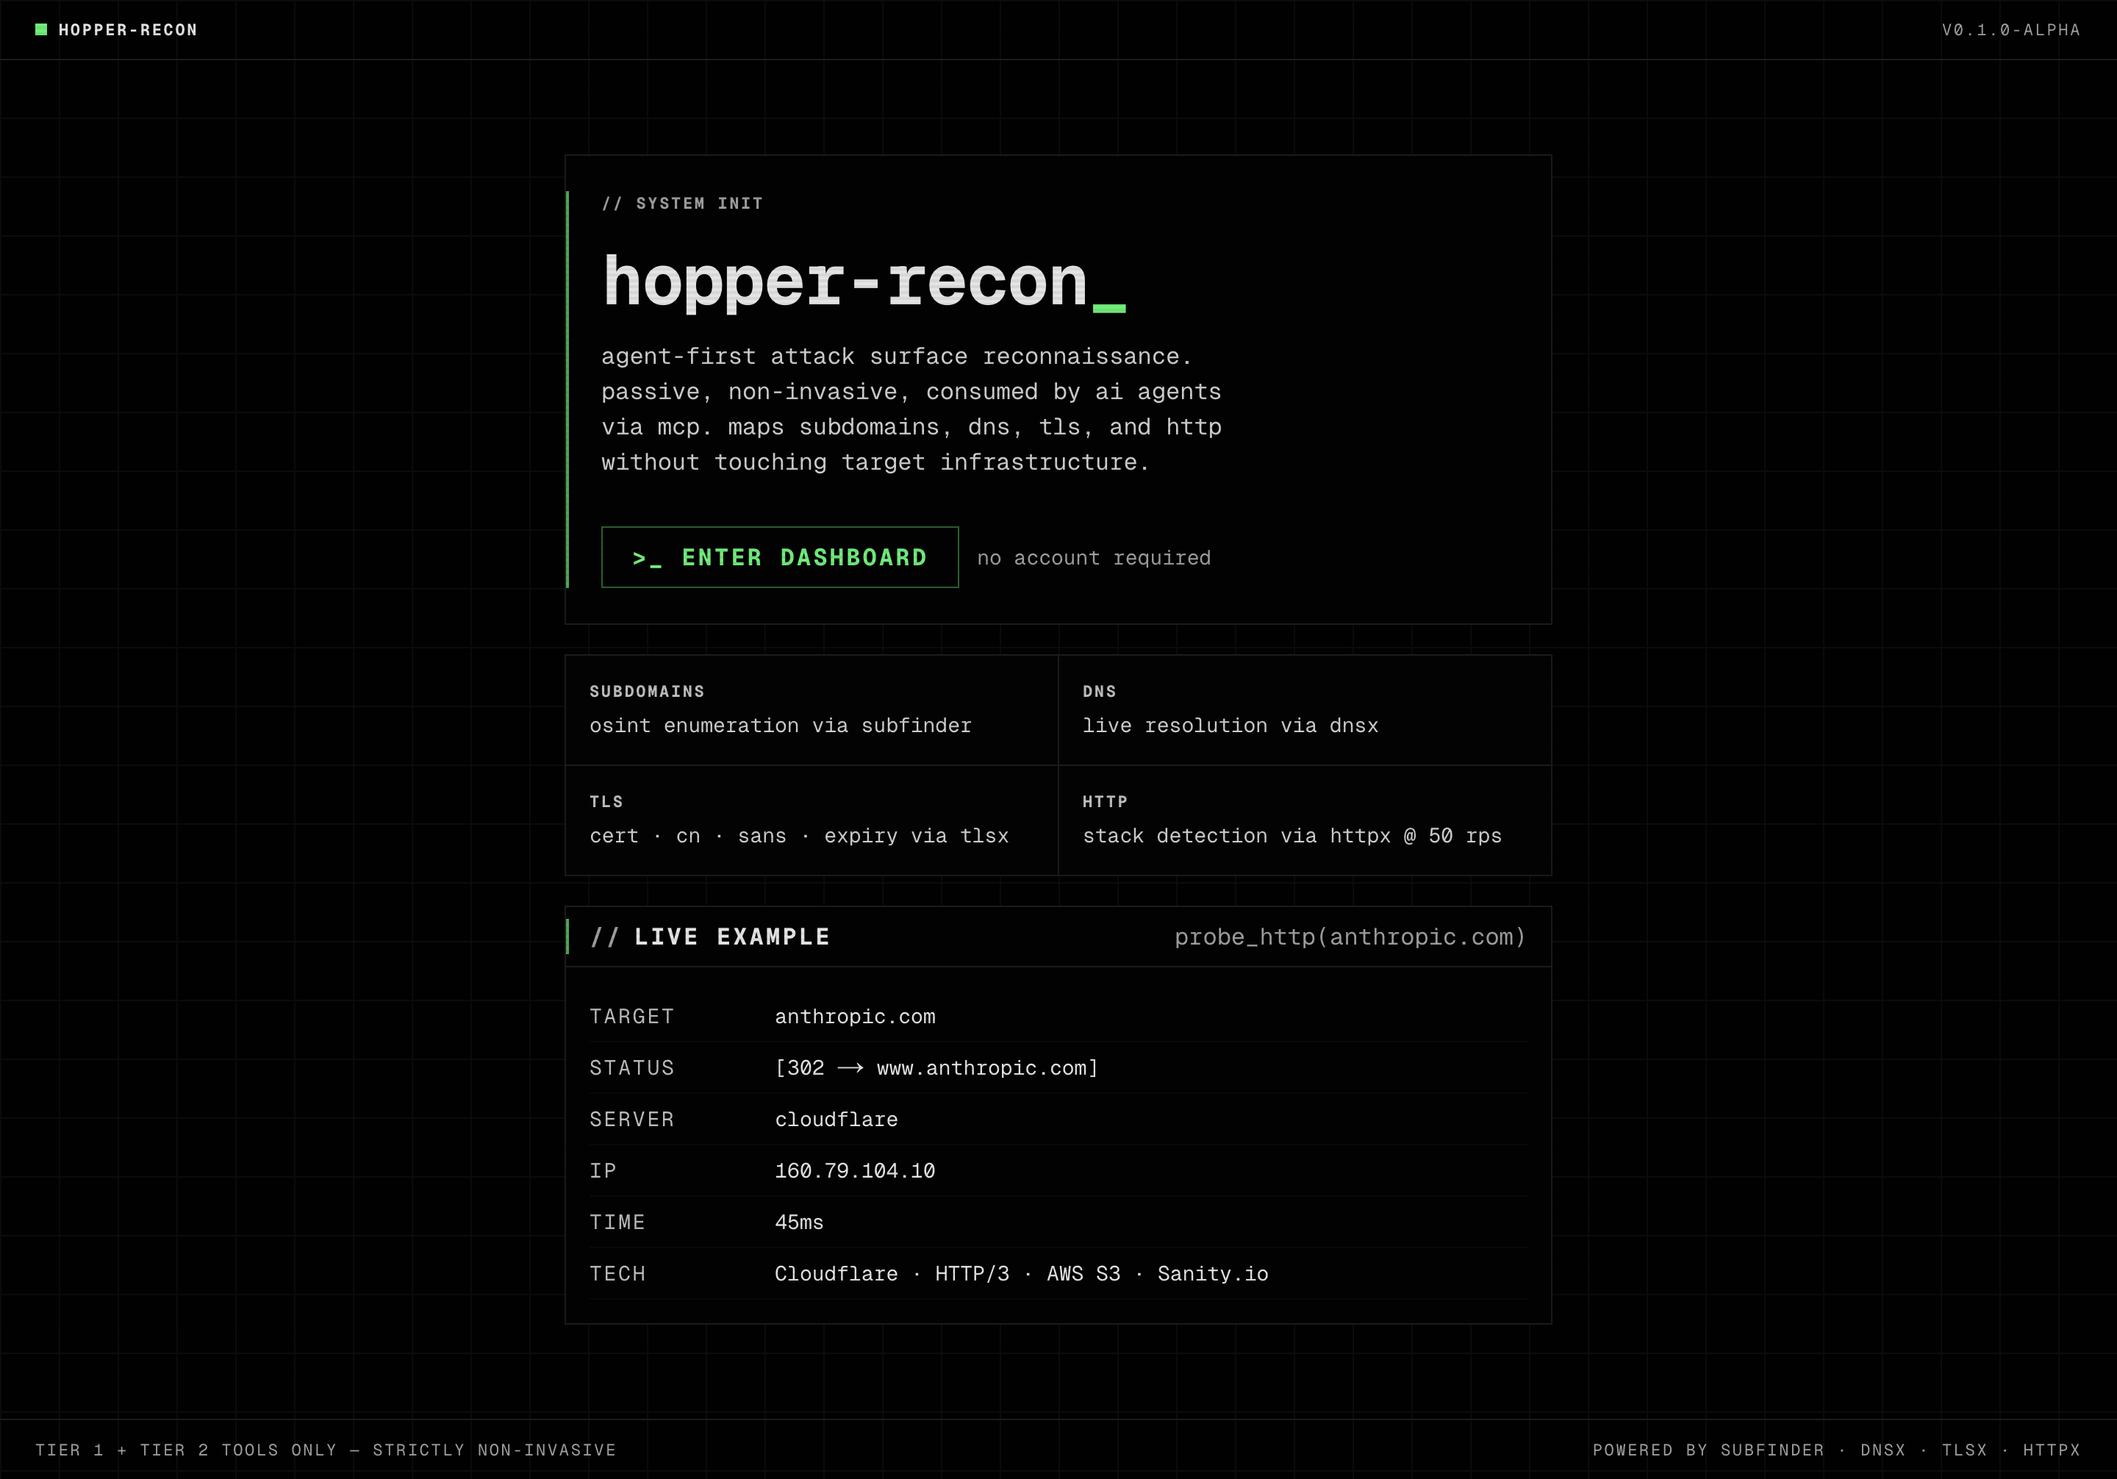
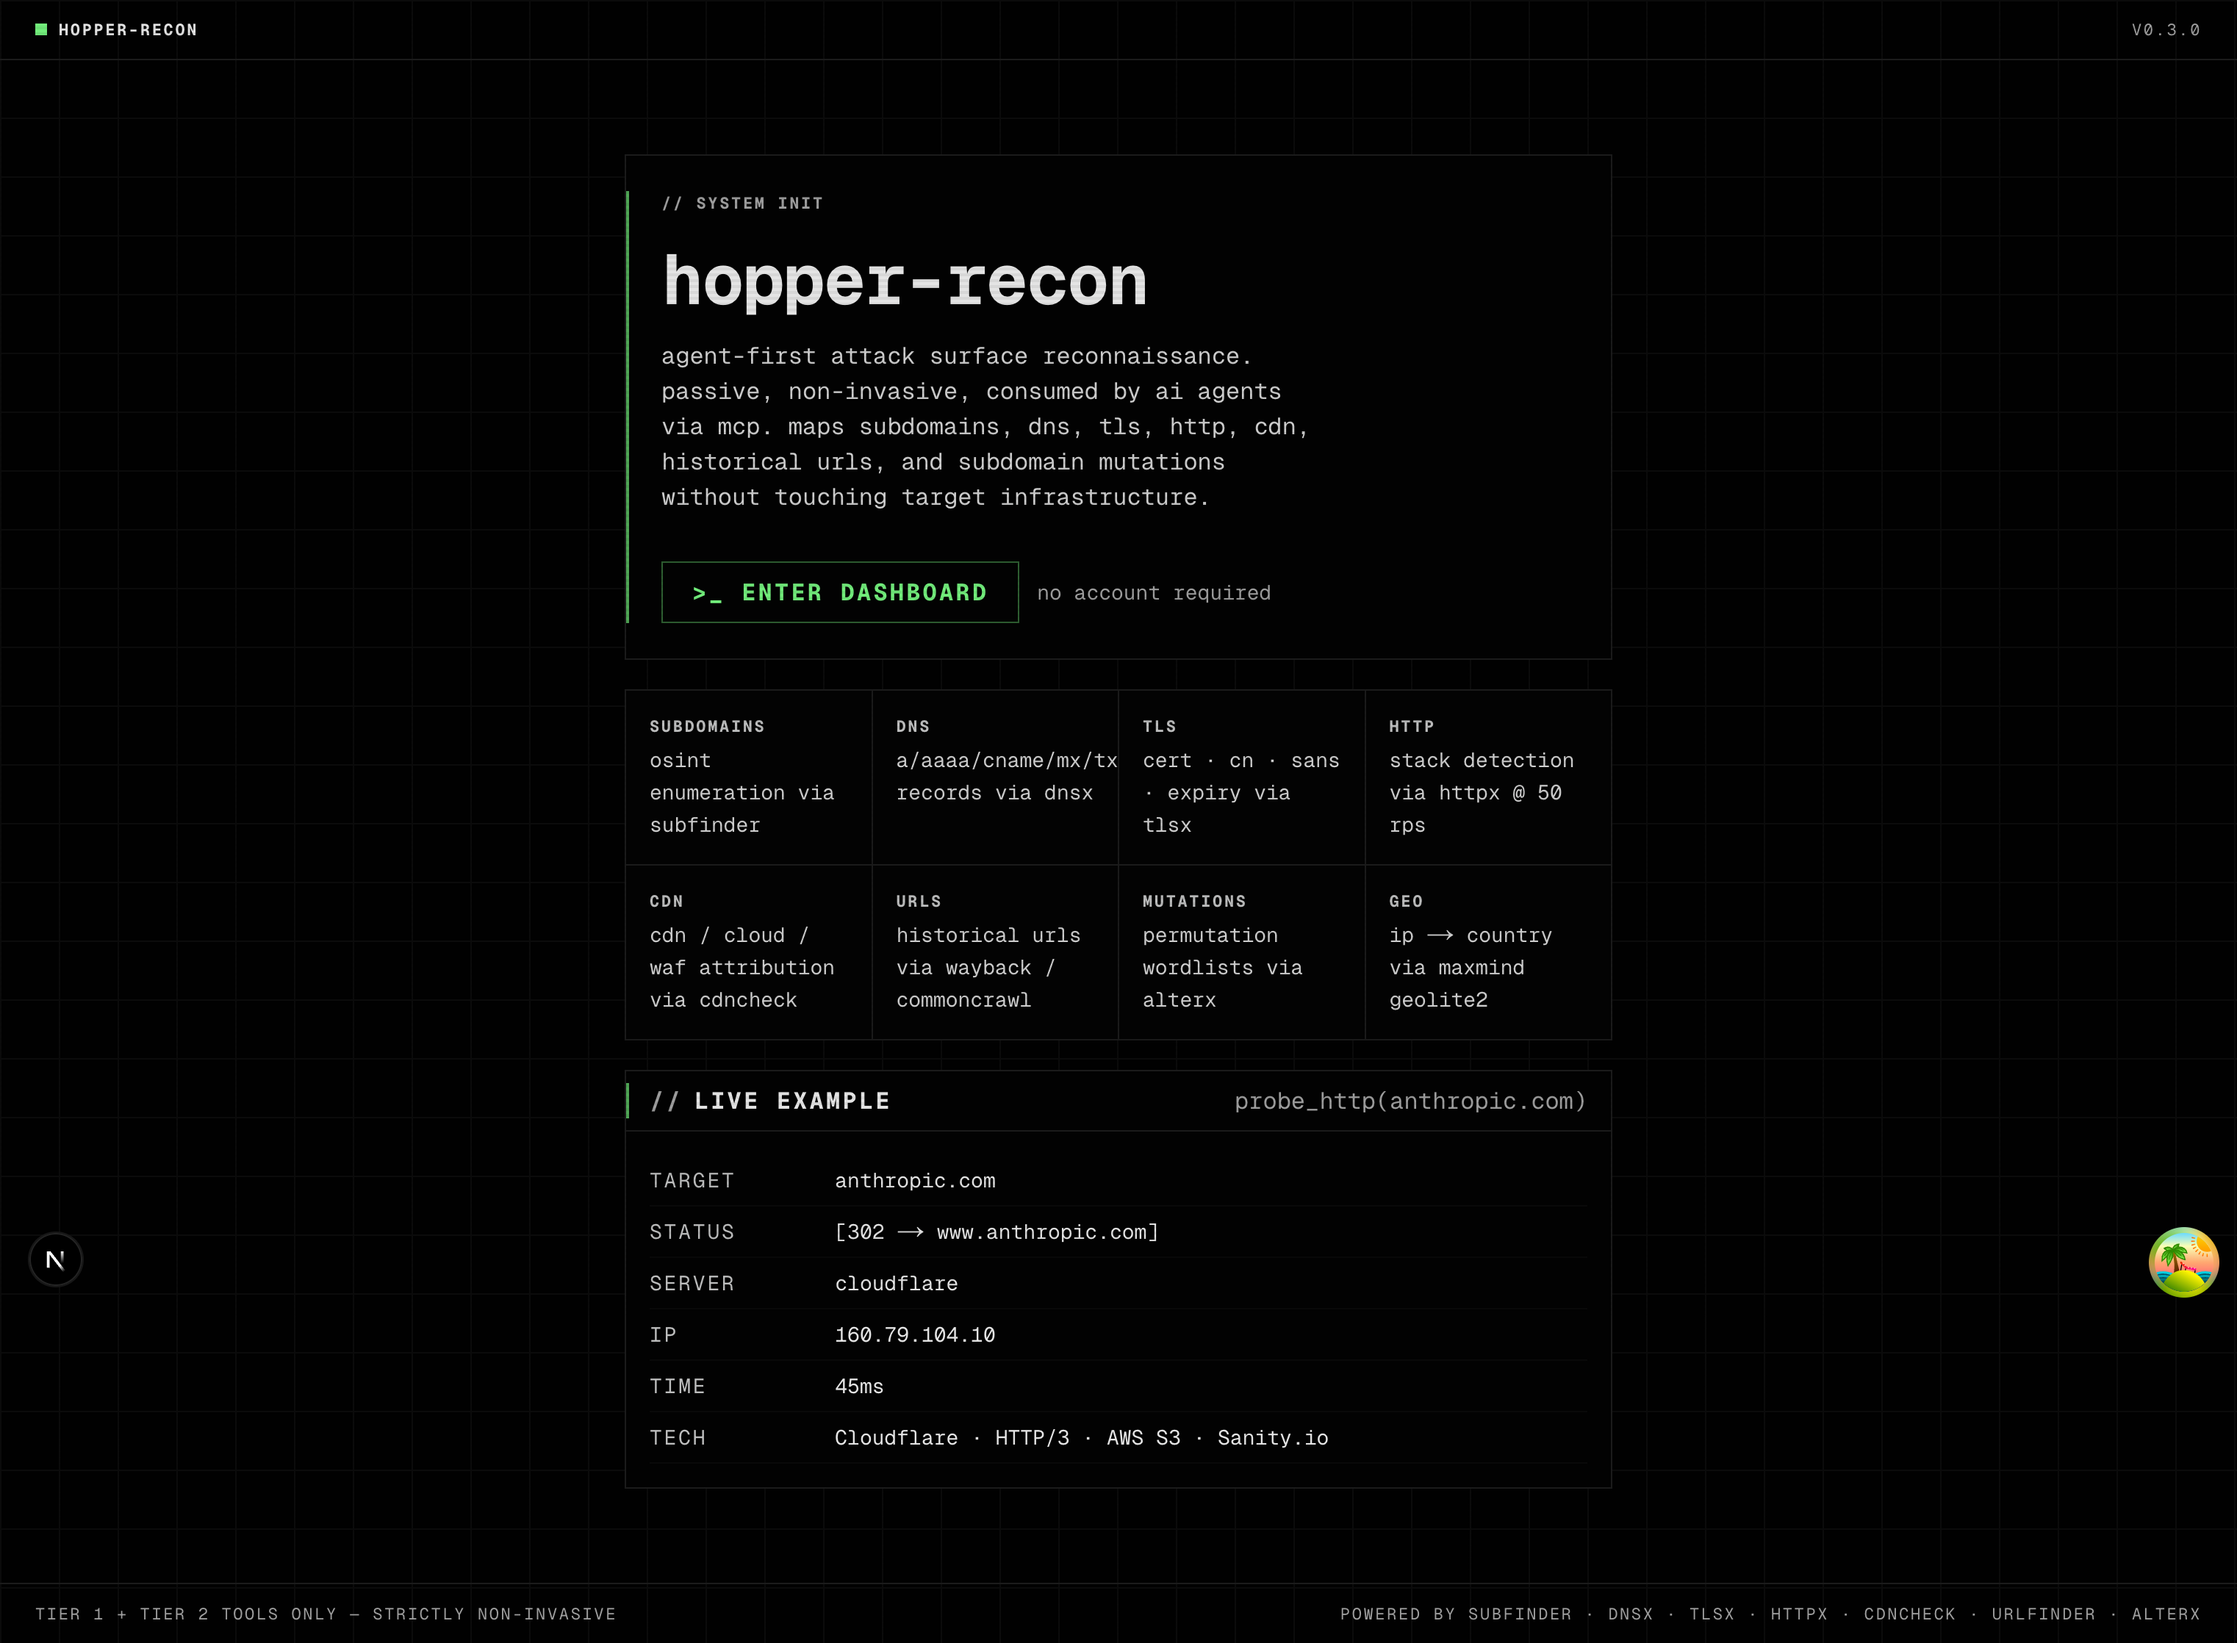
feat: refresh landing page + screenshots for v0.3.0
- Add CDN, URLS, MUTATIONS, GEO to landing capabilities grid (was 4 tools, now 8)
- Update landing description to mention cdn, historical urls, and subdomain mutations
- Update footer binary credits to include cdncheck, urlfinder, alterx
- Switch hardcoded version strings in landing + sidebar to pkg.version (dynamic from package.json)
- Retake all 4 README screenshots: v0.3.0 version badge, full 8-cap grid, MUTATIONS tab visible in dashboard results, MUTATIONS/URLS panels visible in history detail

diff --git a/web/src/app/page.tsx b/web/src/app/page.tsx
@@ -1,11 +1,16 @@
 import Link from "next/link"
 import { Panel } from "@/components/recon/panel"
+import pkg from "../../package.json"
 
 const CAPABILITIES = [
   { label: "SUBDOMAINS", tool: "passive_subdomains", desc: "osint enumeration via subfinder" },
-  { label: "DNS",        tool: "resolve_dns",        desc: "live resolution via dnsx" },
+  { label: "DNS",        tool: "resolve_dns",        desc: "a/aaaa/cname/mx/txt records via dnsx" },
   { label: "TLS",        tool: "fetch_tls_cert",     desc: "cert · cn · sans · expiry via tlsx" },
   { label: "HTTP",       tool: "probe_http",         desc: "stack detection via httpx @ 50 rps" },
+  { label: "CDN",        tool: "check_cdn",          desc: "cdn / cloud / waf attribution via cdncheck" },
+  { label: "URLS",       tool: "find_urls",          desc: "historical urls via wayback / commoncrawl" },
+  { label: "MUTATIONS",  tool: "expand_subdomains",  desc: "permutation wordlists via alterx" },
+  { label: "GEO",        tool: "lookup_geoip",       desc: "ip → country via maxmind geolite2" },
 ]
 
 export default function Home() {
@@ -16,7 +21,7 @@ export default function Home() {
           <span className="size-2 bg-terminal-green" aria-hidden />
           <span className="text-micro uppercase text-foreground tracking-widest font-bold">hopper-recon</span>
         </div>
-        <span className="text-micro tracking-widest uppercase text-muted-foreground-3">v0.1.0-alpha</span>
+        <span className="text-micro tracking-widest uppercase text-muted-foreground-3">v{pkg.version}</span>
       </header>
 
       <main className="flex-1 flex items-center justify-center px-3 sm:px-6 py-8 sm:py-16">
@@ -30,8 +35,9 @@ export default function Home() {
             </h1>
             <p className="text-emphasis text-muted-foreground-2 leading-relaxed max-w-md">
               agent-first attack surface reconnaissance. passive, non-invasive,
-              consumed by ai agents via mcp. maps subdomains, dns, tls, and http
-              without touching target infrastructure.
+              consumed by ai agents via mcp. maps subdomains, dns, tls, http,
+              cdn, historical urls, and subdomain mutations without touching
+              target infrastructure.
             </p>
             <div className="mt-8 flex items-center gap-3">
               <Link
@@ -45,7 +51,7 @@ export default function Home() {
           </div>
 
           {/* Capabilities grid */}
-          <div className="grid grid-cols-2 sm:grid-cols-2 gap-px bg-border border border-border">
+          <div className="grid grid-cols-2 sm:grid-cols-4 gap-px bg-border border border-border">
             {CAPABILITIES.map(({ label, tool, desc }) => (
               <div key={tool} className="bg-card p-4 hover:bg-card-hover transition-colors duration-100">
                 <div className="text-micro text-muted-foreground mb-1 tracking-widest uppercase font-bold">{label}</div>
@@ -80,7 +86,7 @@ export default function Home() {
 
       <footer className="border-t border-border px-6 py-3 flex items-center justify-between">
         <span className="text-micro tracking-widest uppercase text-muted-foreground-3">tier 1 + tier 2 tools only — strictly non-invasive</span>
-        <span className="text-micro tracking-widest uppercase text-muted-foreground-3">powered by subfinder · dnsx · tlsx · httpx</span>
+        <span className="text-micro tracking-widest uppercase text-muted-foreground-3">powered by subfinder · dnsx · tlsx · httpx · cdncheck · urlfinder · alterx</span>
       </footer>
     </div>
   )

diff --git a/web/src/components/app-sidebar.tsx b/web/src/components/app-sidebar.tsx
@@ -2,6 +2,7 @@
 
 import Link from "next/link"
 import { usePathname } from "next/navigation"
+import pkg from "../../package.json"
 import { Radar, History, SlidersHorizontal, Info, type LucideIcon } from "lucide-react"
 import {
   Sidebar,
@@ -74,7 +75,7 @@ export function AppSidebar() {
 
       <SidebarFooter className="border-t border-sidebar-border px-4 py-2 group-data-[collapsible=icon]:hidden">
         <div className="flex items-center justify-between">
-          <span className="font-mono text-micro tracking-widest uppercase text-muted-foreground-3">v0.1.0-alpha</span>
+          <span className="font-mono text-micro tracking-widest uppercase text-muted-foreground-3">v{pkg.version}</span>
           <span className="font-mono text-micro text-terminal-green-dim">●</span>
         </div>
       </SidebarFooter>
